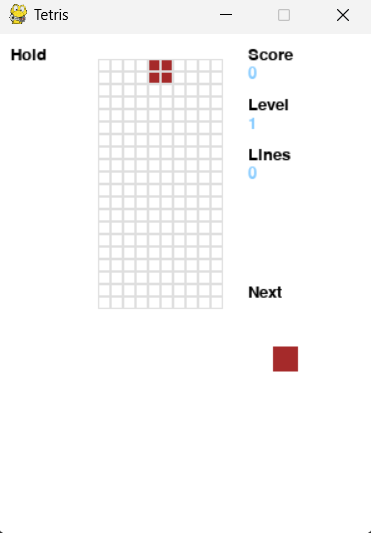
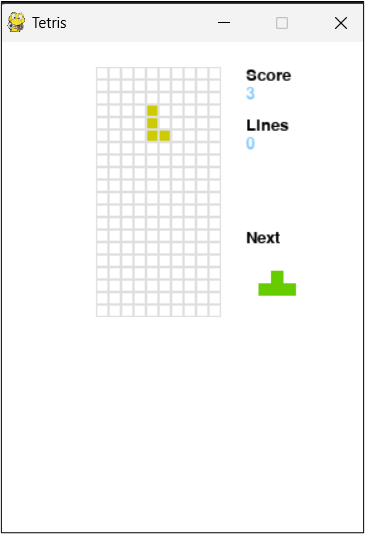
remove unecessary files and variables, remove hold, fix layout

diff --git a/game.py b/game.py
@@ -1,7 +1,5 @@
 import pygame 
 from piece import Piece
-from command import *
-from scoreboard import ScoreBoard
 from screen_play import Screen_play
 
 from pygame.font import *
@@ -24,28 +22,23 @@ falling_piece_sprite = pygame.sprite.Group()
 next_piece_sprite = pygame.sprite.Group()
 
 
-def labels(score, WIDTH, action):
+def labels(score, score_lines, lost, WIDTH, action):
     score_surface = score_label.render("Score", True, (0,0,0))
-    level_surface = score_label.render("Level", True, (0,0,0))
     lines_surface = score_label.render("Lines", True, (0,0,0))
-    hold_surface = score_label.render("Hold", True, (0,0,0))
-    text_score = score_label.render(str(score.score), True, (132, 202, 255))
-    level_score = score_label.render(str(score.level), True, (132, 202, 255))
-    lines_score = score_label.render(str(score.lines), True, (132, 202, 255))
+    text_score = score_label.render(str(score), True, (132, 202, 255))
+    lines_score = score_label.render(str(score_lines), True, (132, 202, 255))
     next_piece_label = score_label.render("Next", True,(0,0,0))
-    lost_surface = score_label.render(str(score.lost), True, "Red")
+    lost_surface = score_label.render(lost, True, "Red")
     action_surface = score_label.render(action, True, "Green")
-    pygame.Surface.blit(screen, hold_surface, (10, 10))
-    pygame.Surface.blit(screen, score_surface, (WIDTH * SCALE - 100, 10))
-    pygame.Surface.blit(screen, text_score, (WIDTH * SCALE - 100, 25))
-    pygame.Surface.blit(screen, level_surface, (WIDTH * SCALE - 100, 50))
-    pygame.Surface.blit(screen, level_score, (WIDTH * SCALE - 100, 65))
-    pygame.Surface.blit(screen, lines_surface, (WIDTH * SCALE - 100, 90))
-    pygame.Surface.blit(screen, lines_score, (WIDTH * SCALE - 100, 105))
-    pygame.Surface.blit(screen, next_piece_label, (WIDTH * SCALE - 100, 200))
+    pygame.Surface.blit(screen, score_surface, (WIDTH * SCALE - 100, 20))
+    pygame.Surface.blit(screen, text_score, (WIDTH * SCALE - 100, 35))
+    pygame.Surface.blit(screen, lines_surface, (WIDTH * SCALE - 100, 60))
+    pygame.Surface.blit(screen, lines_score, (WIDTH * SCALE - 100, 75))
+    pygame.Surface.blit(screen, next_piece_label, (WIDTH * SCALE - 100, 150))
     pygame.Surface.blit(screen, lost_surface, (WIDTH * SCALE - 200, 250))
     pygame.Surface.blit(screen, action_surface, (WIDTH * SCALE - 200, 250))
     return text_score
+
 
 def generate_falling_piece():
     fall_piece = Piece(screen, SCALE, int((WIDTH-5)/2), 2)
@@ -55,7 +48,7 @@ def generate_falling_piece():
     return fall_piece 
 
 def generate_next_piece():
-    next_p = Piece(screen, SCALE, WIDTH - 8, (HEIGHT/2) + 5)
+    next_p = Piece(screen, SCALE, WIDTH - 8, (HEIGHT/3)+ 5)
     next_p.choose_piece()
     next_p.set_coord()
     next_p.coord[next_p.piece] = sorted(next_p.coord[next_p.piece], key = lambda x: x[0], reverse=False)
@@ -133,14 +126,12 @@ def check_lost(falling_piece):
     return False
 
 
-def clear_rows(x_left, x_right, top, bottom, grid, new_g):
+def clear_rows(x_left, x_right, grid, new_g):
     # i need to create a dictionary to store all positions thats not white with y as key
     # then i need to check if all lines are occupied
     x_left = int(x_left/10)
     x_right = int(x_right/10)
-    top = int(top/10)
-    bottom = int(bottom/10)
- 
+  
     # add to a dictionary the values that are not white
     verify_val = defaultdict(list)
     for val in grid:
@@ -164,7 +155,7 @@ def clear_rows(x_left, x_right, top, bottom, grid, new_g):
     
     if change:
         new_g = grid # copy all positions
-        
+        #loop backwars to get previous positions
         for x, y in sorted(new_g,reverse=True):
             if y-1 > 1:
                 new_g[(x, y)] = grid[(x,y-1)]
@@ -173,17 +164,27 @@ def clear_rows(x_left, x_right, top, bottom, grid, new_g):
     return 0, grid
 
 
-def handle_score(level, lines, score):
+def handle_score(lines, score):
     if lines != 0:
         print(lines)
         lines_dict = {1: "Single", 2: "Double", 3: "Triple", 4: "Tetris"}
-        score_dict = {1: 100 * level, 2: 300*level, 3: 500 * level, 4: 800 * level}
+        score_dict = {1: 100, 2: 300, 3: 500, 4: 800}
         return score+score_dict[lines], lines_dict[lines]
     else:
         return score, ""
 
+def set_free_pos(grid):
+    free_pos = []
+    for val in grid:
+        if grid[val] == "white":
+            free_pos.append(val)
+    return free_pos
+
 
 def main():
+    score = 0
+    score_lines = 0
+    lost = ""
     x_left = 80
     x_right = 180 
     y_top = 20
@@ -191,34 +192,25 @@ def main():
 
     run = 1
     orientation_piece = (0, 1)
-    state = "soft"
-    count = 1 # hold
     fall_speed = 0.29
     fall_time = 0
     level_time = 0
 
     screen_play = Screen_play(screen, x_left, x_right, y_top, y_bottom, SCALE)
     screen_sprite.add(screen_play)
-    score = ScoreBoard()
-    
+        
     #pieces
     fall_piece = generate_falling_piece()
     falling_piece_sprite.add(fall_piece)
     next_piece = generate_next_piece()
     next_piece_sprite.add(next_piece)
-    hold_piece = Piece(screen, SCALE, 2, 5)
     
     #dimensions grid 10x20
     screen_play.create_grid()
     create_grid = screen_play.create_grid()
     change_piece = False
-    
-    free_pos = []
-    for val in screen_play.grid:
-        if screen_play.grid[val] == "white":
-            free_pos.append(val)
-
-    action = ""
+    free_pos = set_free_pos(screen_play.grid)
+    action = "" # info about clear rows
 
     while run:
         fall_time += clock.get_rawtime()
@@ -232,23 +224,20 @@ def main():
 
         if fall_time/1000 >= fall_speed:
             fall_time = 0
-            free_pos = []
-            for val in screen_play.grid:
-                if screen_play.grid[val] == "white":
-                    free_pos.append(val)    
+            free_pos = set_free_pos(screen_play.grid) 
            
             orientation_piece = (0, 1)
-            lines, screen_play.grid = clear_rows(x_left, x_right, y_top, y_bottom, screen_play.grid, create_grid)
-            score.lines += lines
+            lines, screen_play.grid = clear_rows(x_left, x_right, screen_play.grid, create_grid)
+            score_lines += lines
             if validate_space(free_pos, fall_piece.coord[fall_piece.piece], orientation_piece):
                 fall_piece.set_pos(orientation_piece) 
-                score.score += 1
-                score.score, action = handle_score(score.level, lines, score.score)
+                score += 1
+                score, action = handle_score(lines, score)
             else:
                 change_piece = True
 
             if check_lost(fall_piece.coord[fall_piece.piece]):
-                score.lost = 'Game Over!'
+                lost = 'Game Over!'
                 run = 0        
             
         for event in pygame.event.get():
@@ -256,9 +245,7 @@ def main():
                 pygame.quit() #shuts down pyGame
                 run = 0
             elif event.type == pygame.KEYDOWN:
-                i = InputHandler()    
-                orientation_piece, state, count = i.handleInput(event, orientation_piece, state, count)               
-                
+             
                 if event.key == pygame.K_LEFT:
                     orientation_piece = (-1, 0)
                     if validate_space(free_pos,fall_piece.coord[fall_piece.piece], orientation_piece):
@@ -268,13 +255,11 @@ def main():
                     if validate_space(free_pos,fall_piece.coord[fall_piece.piece], orientation_piece):
                         fall_piece.set_pos(orientation_piece) 
                 elif event.key == pygame.K_DOWN:
-                    state = "soft"
                     orientation_piece = (0, 1)
                     if validate_space(free_pos,fall_piece.coord[fall_piece.piece], orientation_piece):
                         fall_piece.set_pos(orientation_piece) 
-                        score.score += 1
-
-                if event.key == pygame.K_z:# rotate left
+                        score += 1
+                elif event.key == pygame.K_z:# rotate left
                     val_rot, pos = validate_rotate_l(free_pos, fall_piece.piece, fall_piece.coord[fall_piece.piece])
                     if val_rot:
                         fall_piece.coord[fall_piece.piece] = pos
@@ -282,6 +267,9 @@ def main():
                     val_rot, pos = validate_rotate(free_pos, fall_piece.piece, fall_piece.coord[fall_piece.piece])
                     if val_rot:
                         fall_piece.coord[fall_piece.piece] = pos
+                else:
+                    #ignore other keys pressed
+                    orientation_piece = (0,0)
 
         if change_piece:
             screen_play.set_grid(fall_piece.coord[fall_piece.piece], fall_piece.color_piece[fall_piece.piece])
@@ -291,8 +279,7 @@ def main():
             change_piece = False     
 
         screen.fill("white")  
- 
-        labels(score, WIDTH, action)
+        labels(score, score_lines, lost, WIDTH, action)
 
         screen_play.fill()
         fall_piece.fill()
@@ -301,10 +288,10 @@ def main():
         falling_piece_sprite.update()
         next_piece_sprite.update()
         screen_sprite.update()
-
         pygame.display.update()
         if run == 0:
             pygame.time.delay(1000)
+
 
 if __name__ == '__main__':  
     main()

diff --git a/screen_play.py b/screen_play.py
@@ -23,7 +23,6 @@ class Screen_play(pygame.sprite.Sprite):
         for val_pos in pos:  
             self.grid[val_pos] = color
 
-
     def draw_grid(self):
         for x in range(self.x_l, self.x_r, self.scale):
             for y in range(self.top, self.bottom, self.scale):
